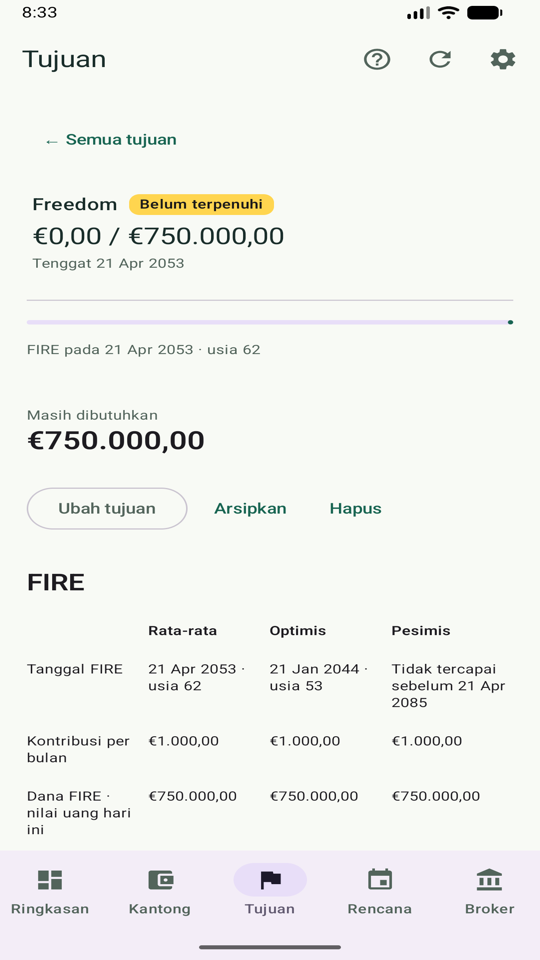
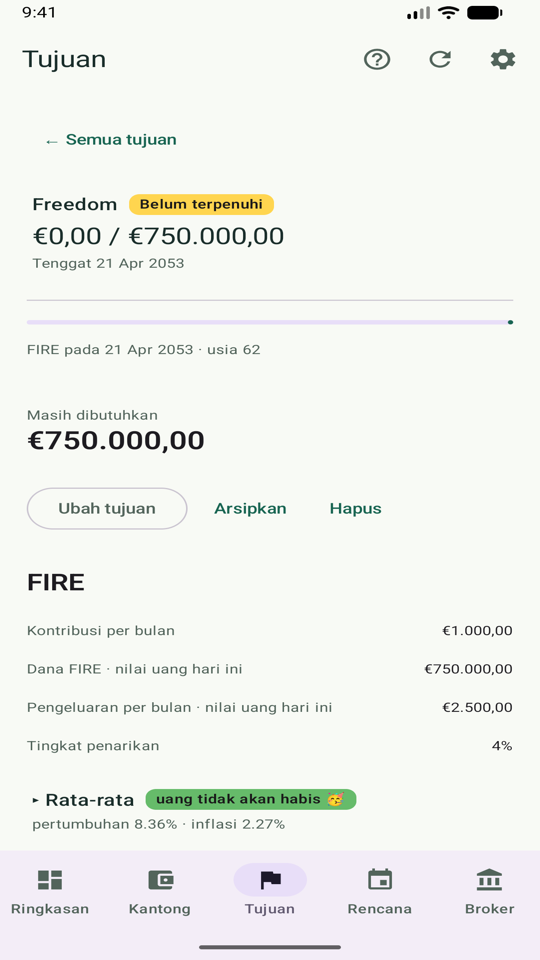
FIRE goal: goal screenshots in 15 languages for the foldable scenarios
Claude-Session: https://claude.ai/code/session_01CuZNtgo8h4dLdCNeaF2jyS

diff --git a/openspec/specs/fire-goal/spec.md b/openspec/specs/fire-goal/spec.md
@@ -31,7 +31,7 @@ The calculation SHALL run for average, optimistic and pessimistic growth and inf
 - **THEN** the average scenario uses 5 % and the others keep their values.
 
 ### Requirement: Burndown
-After the FIRE date the value SHALL decrease by the inflation-adjusted spend each month and grow by the scenario's rate. The screen SHALL say until which date (and age, when the birth date is known) the money lasts; when it lasts beyond life expectancy it SHALL say for how many years; when it is never exhausted it SHALL say "money will never end 🥳". A chart SHALL draw the value in today's money from today to the end of the money or the horizon for the three scenarios, with the FIRE date marked.
+After the FIRE date the value SHALL decrease by the inflation-adjusted spend each month and grow by the scenario's rate. The screen SHALL say until which date (and age, when the birth date is known) the money lasts; when it lasts beyond life expectancy it SHALL say for how many years; when it is never exhausted it SHALL say "money will never end 🥳". The screen SHALL show the values equal in every scenario once, then one foldable row per scenario with its growth and inflation rates and a badge: "Money is enough", "money will never end 🥳" or "Not enough money". A chart SHALL draw the value in today's money from today to the end of the money or the horizon for the three scenarios, with the FIRE date marked.
 
 #### Scenario: Money outlives the saver
 - **WHEN** the drawdown ends after the life-expectancy age under a scenario

diff --git a/openspec/changes/archive/2026-10-21-add-fire-goal/proposal.md b/openspec/changes/archive/2026-10-21-add-fire-goal/proposal.md
@@ -5,6 +5,7 @@ Goals say what to save by when. They cannot answer the question a long-term save
 ## What Changes
 
 - A goal can be of type **FIRE**. Its editor adds: birth date, FIRE date, contribution ("I can invest X per week / 2 weeks / month / year / N days"), monthly spend after FIRE, and the amount to have after FIRE (the goal target). Each of FIRE date, contribution, target and spend may be left blank; the app derives what it can from the rest and says what is missing.
+- **Foldable scenarios** (v2.13.0): shared inputs once, one fold per scenario with a status badge.
 - **Contribution growth % per year** (v2.12.0): a yearly raise of the contribution; blank keeps its purchasing power.
 - **Advanced** section with defaults taken from public sources: inflation 3 % (optimistic 2, pessimistic 5), growth 7 % (optimistic 10, pessimistic 4), withdrawal rate 4 %, life expectancy 95. All overridable per goal.
 - All amounts are entered in today's money; the goal screen shows nominal values next to them. Funding from connected buckets counts as today's money, as for every goal.
